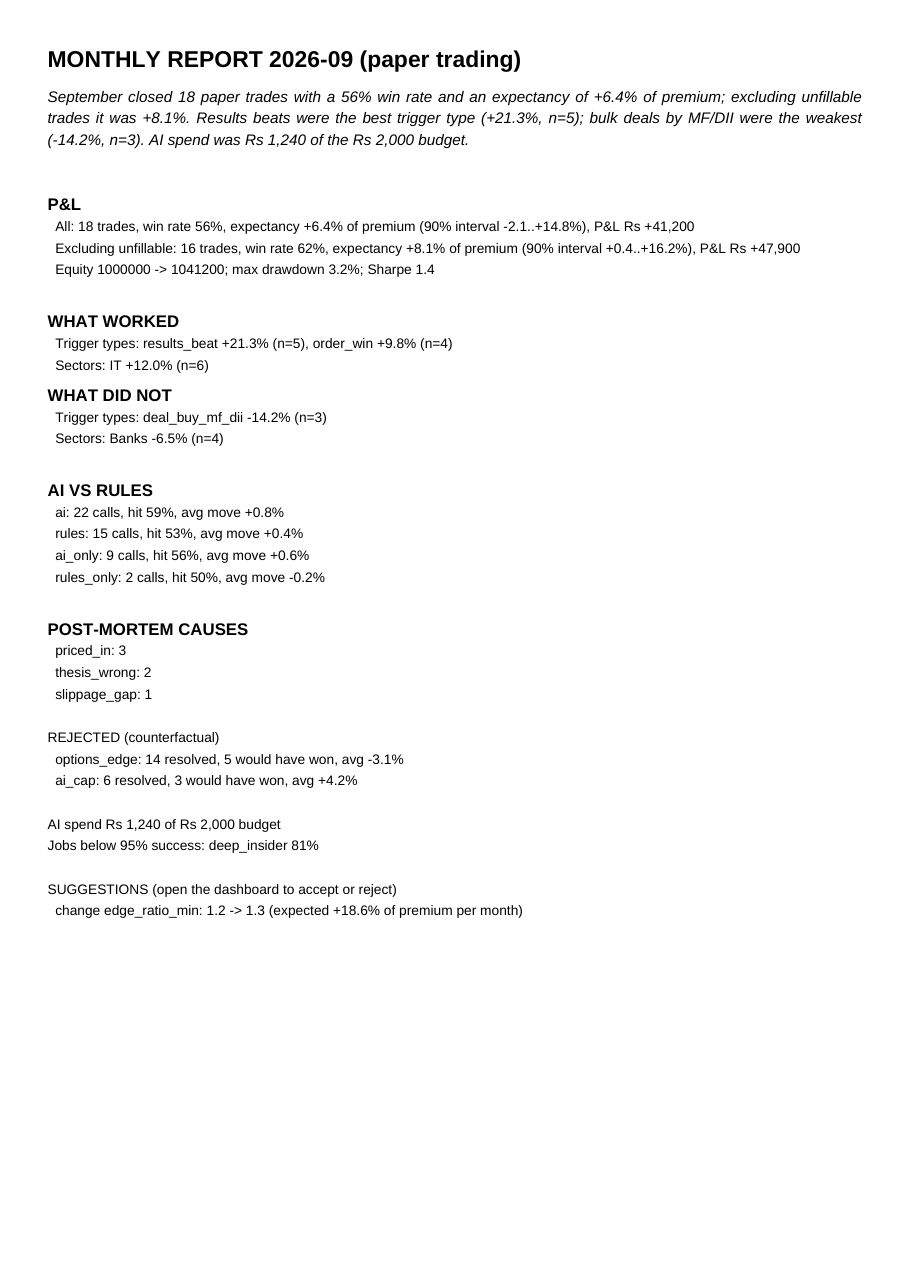
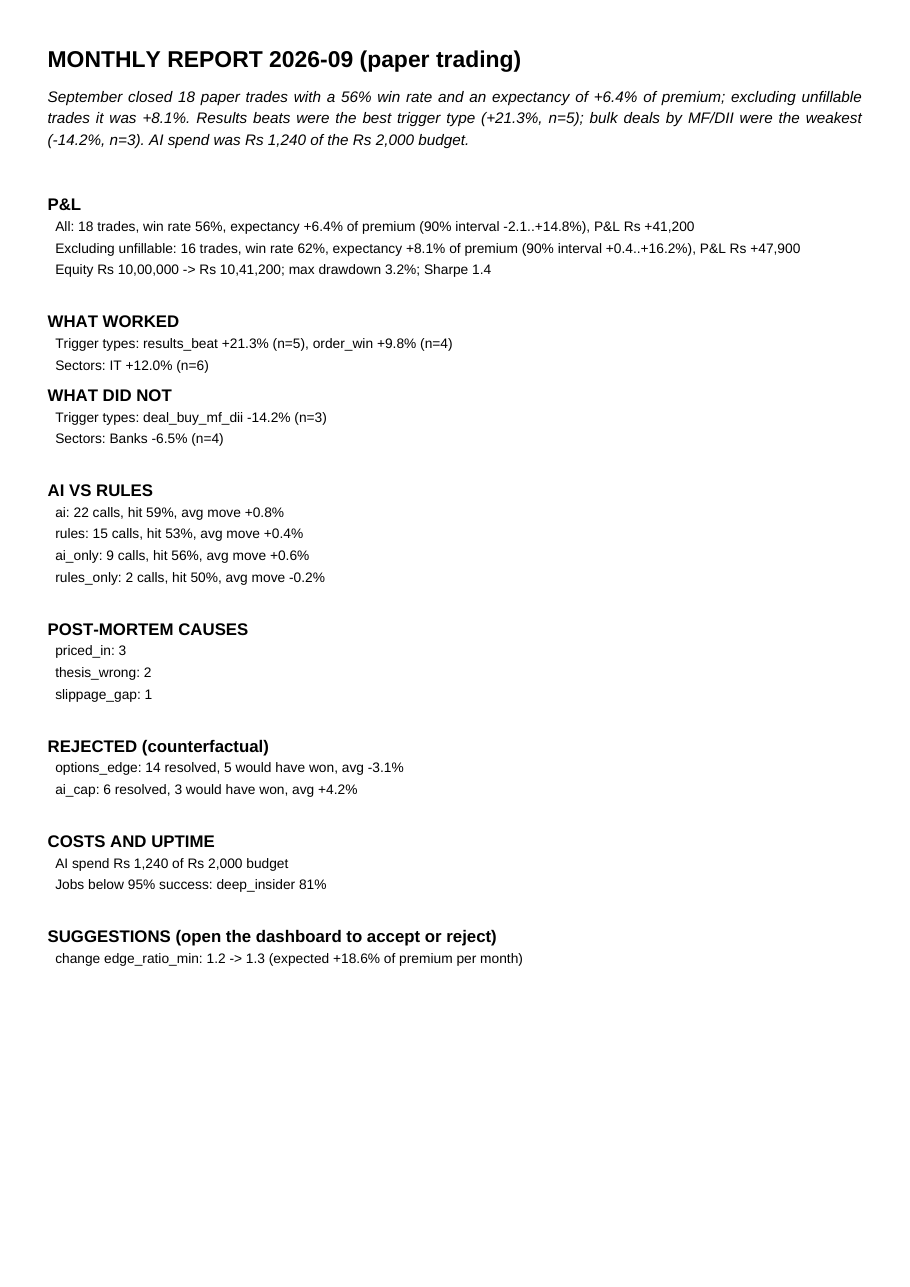
Monthly report: Indian-grouped rupees for equity, bold headings for every section
Claude-Session: https://claude.ai/code/session_01G9KPURPPruRqCEwVzcp776

Changed region(s): [[0.0615, 0.5594, 0.5538, 0.7459], [0.1231, 0.1865, 0.5231, 0.2176]]

diff --git a/worker/app/analytics/monthly.py b/worker/app/analytics/monthly.py
@@ -151,6 +151,23 @@ def _pct(x: Any) -> str:
     return "n/a" if x is None else f"{x:+.1f}%"
 
 
+def _rs(x: Any) -> str:
+    """Rupees with Indian digit grouping: 1041200 -> Rs 10,41,200."""
+    if x is None:
+        return "n/a"
+    sign, n = ("-" if x < 0 else ""), f"{abs(round(x)):d}"
+    head, tail = n[:-3], n[-3:]
+    while len(head) > 2:
+        tail, head = f"{head[-2:]},{tail}", head[:-2]
+    return f"{sign}Rs {head + ',' if head else ''}{tail}"
+
+
+def _heading(line: str) -> bool:
+    """Section titles are capitals, optionally followed by a note in brackets."""
+    title = line.split(" (", 1)[0]
+    return bool(line) and not line.startswith(" ") and title.isupper()
+
+
 def render(d: dict[str, Any]) -> str:
     a, f = d["trades"]["all"], d["trades"]["excluding_unfillable"]
 
@@ -176,7 +193,7 @@ def render(d: dict[str, Any]) -> str:
         "P&L",
         line("All", a),
         line("Excluding unfillable", f),
-        f"  Equity {d['equity']['start'] or 'n/a'} -> {d['equity']['end'] or 'n/a'}; max drawdown "
+        f"  Equity {_rs(d['equity']['start'])} -> {_rs(d['equity']['end'])}; max drawdown "
         f"{r.get('max_drawdown_pct', 'n/a')}%; Sharpe {r.get('sharpe', 'n/a')}",
         "",
         "WHAT WORKED",
@@ -210,10 +227,15 @@ def render(d: dict[str, Any]) -> str:
         ]
         or ["  none resolved"]
     )
-    out += ["", f"AI spend Rs {d['ai_spend_inr']:,.0f} of Rs {d['ai_budget_inr']:,.0f} budget"]
+    out += [
+        "",
+        "COSTS AND UPTIME",
+        f"  AI spend Rs {d['ai_spend_inr']:,.0f} of Rs {d['ai_budget_inr']:,.0f} budget",
+    ]
     weak = {k: v for k, v in d["uptime"].items() if v < 0.95}
     out.append(
-        "Jobs below 95% success: " + (", ".join(f"{k} {v:.0%}" for k, v in weak.items()) or "none")
+        "  Jobs below 95% success: "
+        + (", ".join(f"{k} {v:.0%}" for k, v in weak.items()) or "none")
     )
     out += ["", "SUGGESTIONS (open the dashboard to accept or reject)"] + (
         [
@@ -325,7 +347,7 @@ def pdf(text: str, summary: str | None, path: Path) -> Path:
         doc.multi_cell(0, 5, _latin(summary), new_x="LMARGIN", new_y="NEXT")
         doc.ln(3)
     for ln in lines[1:]:
-        if ln and ln.isupper() and not ln.startswith(" "):
+        if _heading(ln):
             doc.ln(2)
             doc.set_font("Helvetica", "B", 11)
         else:

diff --git a/worker/tests/test_phase10.py b/worker/tests/test_phase10.py
@@ -599,3 +599,12 @@ def test_one_trading_day_end_to_end(
     assert "Realised Rs" in text and "(1 closed)" in text and "S-1 BHARTIARTL" in text
     assert stats["all"]["n"] == 1 and stats["breakdowns"]["prediction_source"]
     get_settings.cache_clear()
+
+
+def test_report_rupees_and_headings() -> None:
+    assert monthly._rs(1041200) == "Rs 10,41,200" and monthly._rs(-950) == "Rs -950".replace(
+        "Rs -", "-Rs "
+    )
+    assert monthly._rs(12500000) == "Rs 1,25,00,000" and monthly._rs(None) == "n/a"
+    assert monthly._heading("REJECTED (counterfactual)") and monthly._heading("COSTS AND UPTIME")
+    assert not monthly._heading("  ai: 22 calls") and not monthly._heading("AI spend Rs 1")
